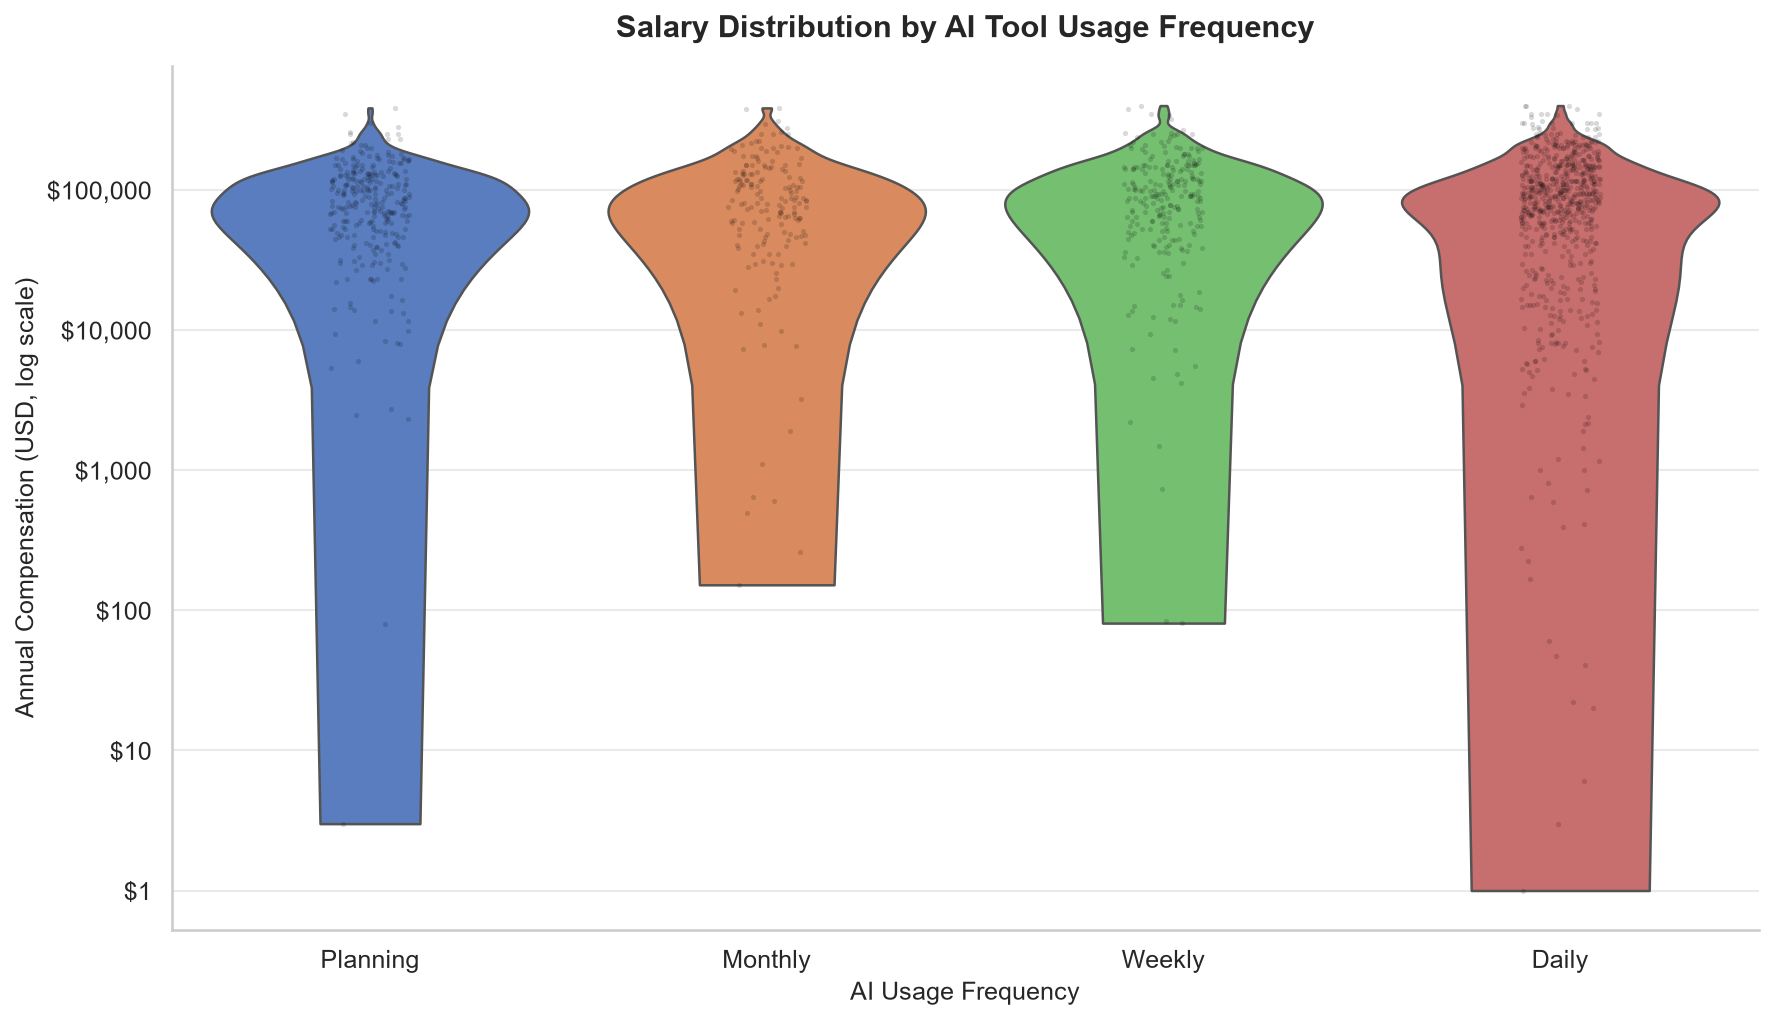
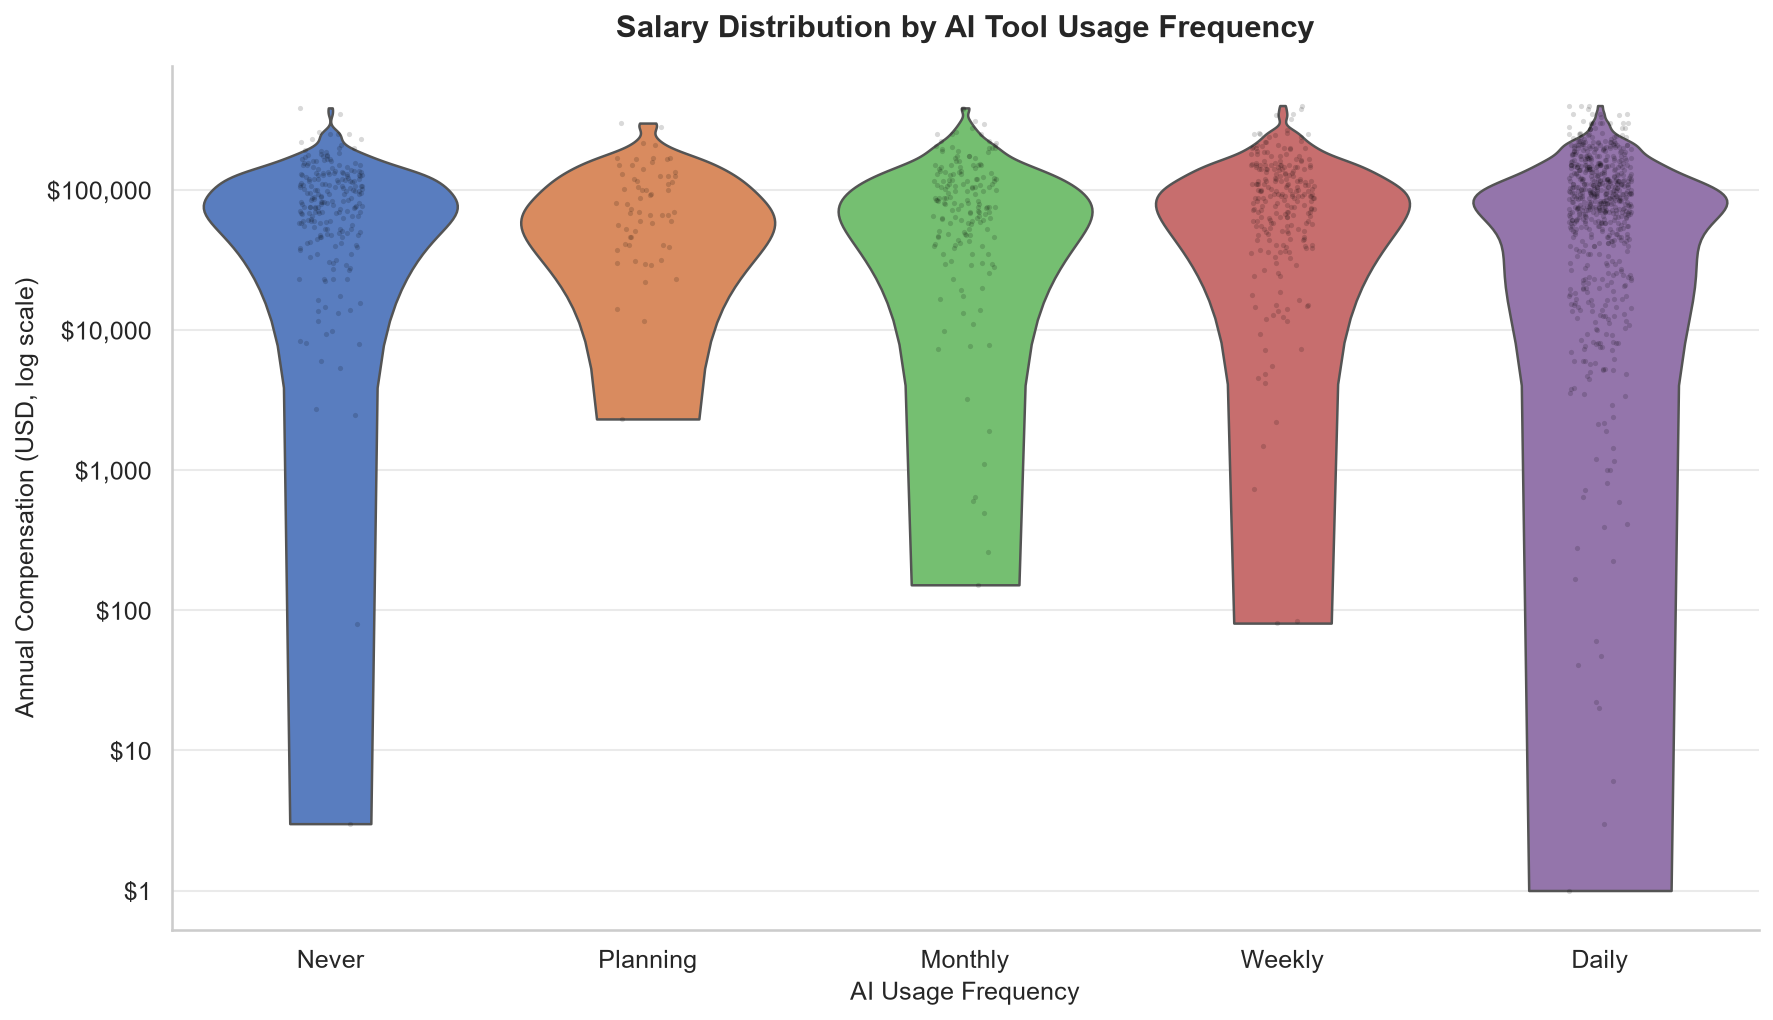
fix: correct Chart 1 label bug, narrative, and kernelspec

diff --git a/README.md b/README.md
@@ -28,7 +28,7 @@ Key numeric columns (`ConvertedCompYearly`, `YearsCode`, `WorkExp`) have 20–40
 
 ![Violin + Strip Plot](img/01_violin_ai_comp.png)
 
-Daily AI users (873 respondents) show a notably higher and tighter salary distribution than non-users (345 respondents). The violin width reveals that non-users cluster at lower salary bands while daily users span a broader range at the upper end. The log scale exposes the full spread without being dominated by outliers.
+Frequent AI users (weekly and daily) show higher salary distributions than non-users and planning-soon respondents, though the gap is moderate (~$3–6K at the median). Notably, weekly users show a slightly higher median salary than daily users, suggesting diminishing returns at the highest usage frequency. The violin shapes reveal that non-users cluster more tightly at lower salary bands, while AI users have heavier upper tails.
 
 ---
 